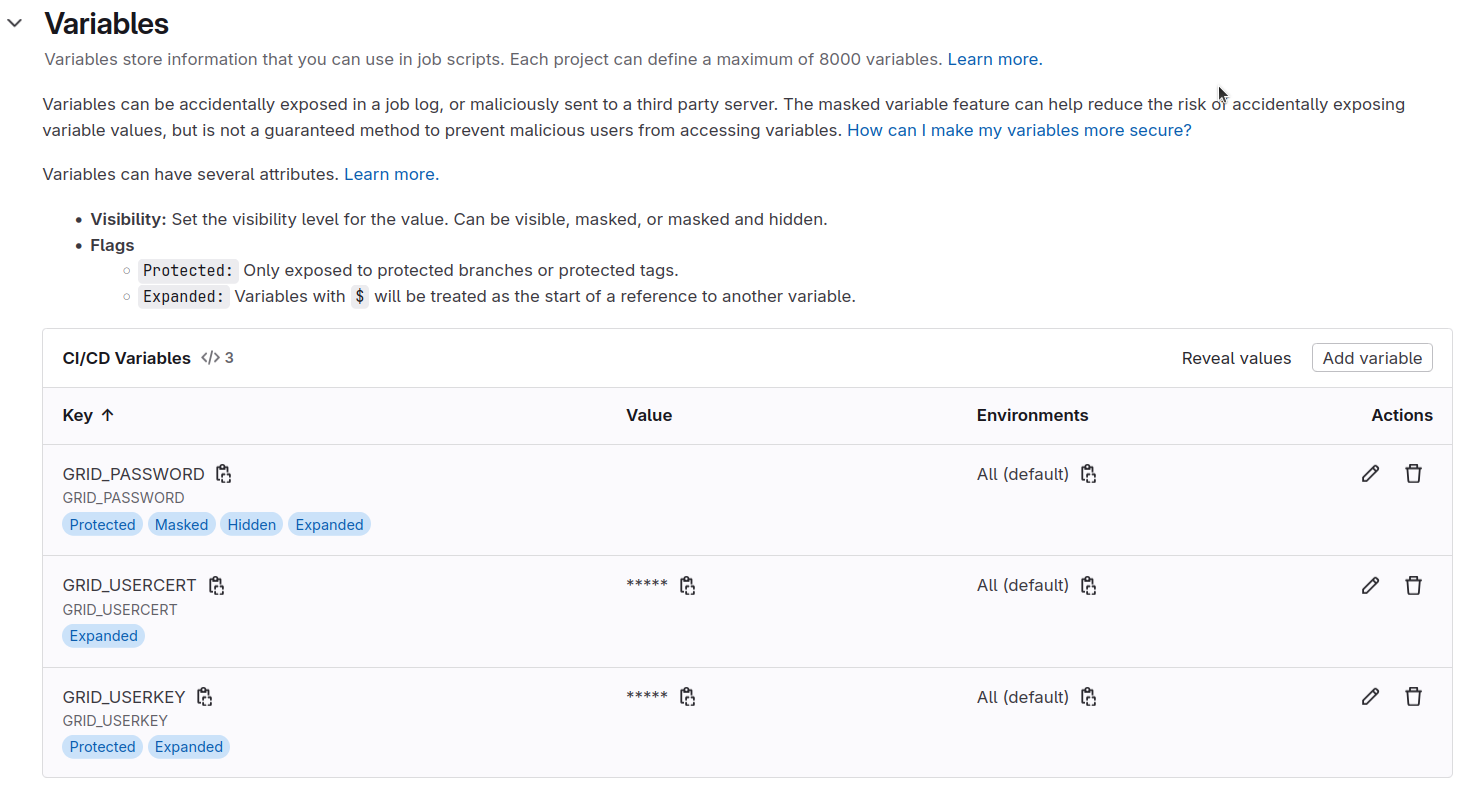
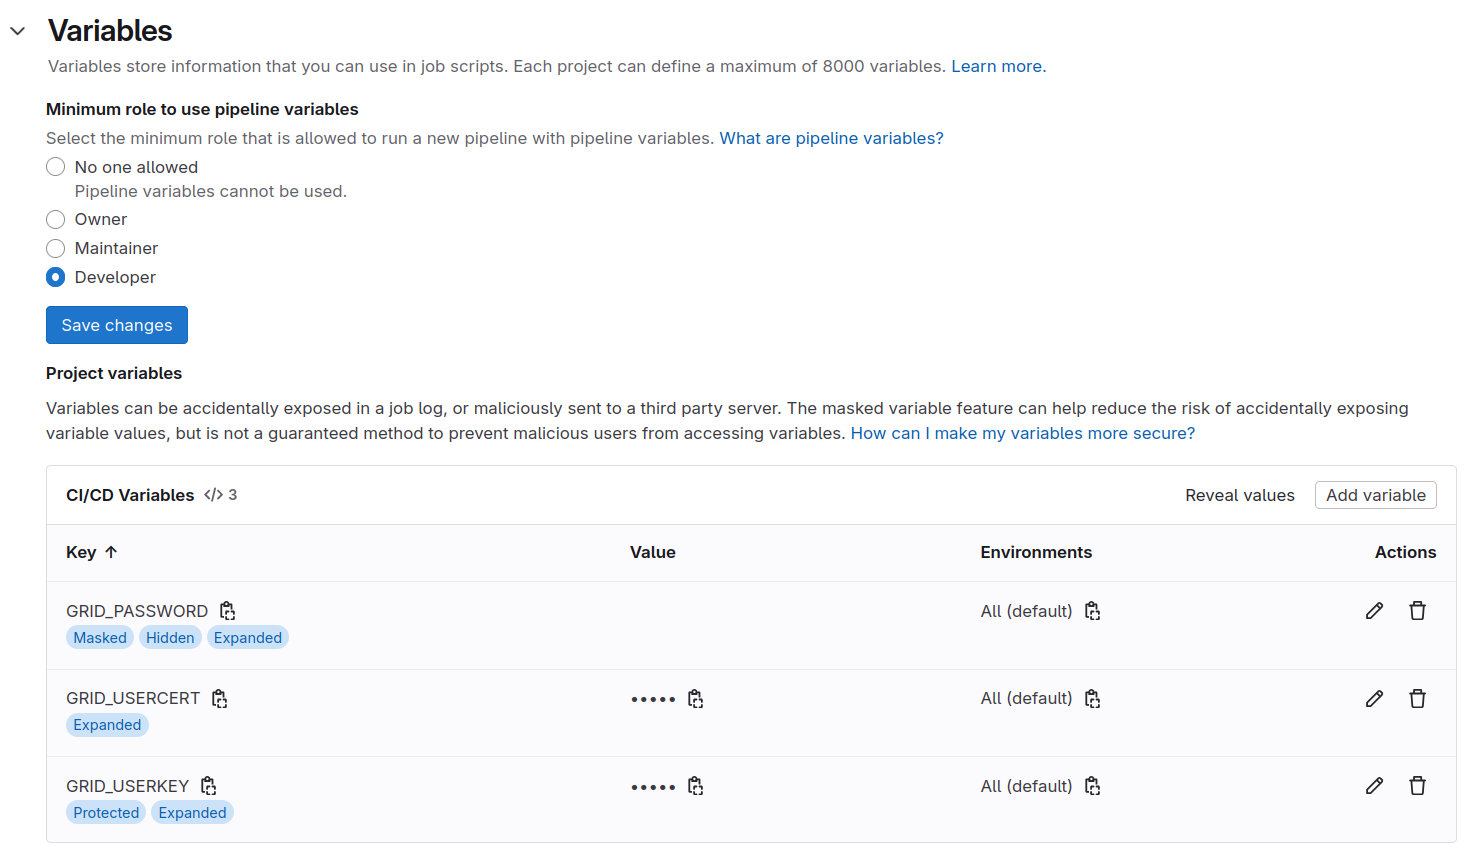
Addressing issue #11

diff --git a/_episodes/03-vomsproxy.md b/_episodes/03-vomsproxy.md
@@ -29,11 +29,12 @@ to be stored in GitLab.
 > history. Furthermore, putting them in a public, or even a private but shared
 > repository, is a violation of grid policy, and could lead to access being
 > revoked for the offending user. Should you accidentally have put sensitive
-> data to a repository, please see the [guide by GitHub][removing-sensitive] to
+> data to a repository, please see the guides [by GitHub][removing-sensitive-github]
+> and [by GitLab][removing-sensitive-gitlab] to
 > remove them (though the data should still be considered compromised).
 {: .callout}
 
-Please make sure to revisit the section on
+For more information see the section on
 [private information/access control][lesson-gitlab-secrets]
 from the
 [Continuous Integration / Continuous Development (CI/CD)][lesson-gitlab]
@@ -141,7 +142,7 @@ and certificates as variables to GitLab:
 - As an additional safety measure, set them as `Masked` as well if possible (this will not work for the certificates but should for your grid password).
 
 For more details, see the
-[Variables: Advanced use section][gitlab-variables-advanced]
+[GitLab CI/CD variables][gitlab-variables-advanced]
 of the GitLab documentation. Setting variables to `Protected` means that
 they are only available in protected branches, e.g. your `master` branch.
 This is important when collaborating with others, since anyone with access
@@ -166,12 +167,13 @@ printf 'mySecr3tP4$$w0rd' | base64
 {: .language-bash}
 
 Mind the single quotes (`'`) and not double quotes (`"`). If you are on Linux,
-you should `-w 0` to the `base64` command.
+you should add `-w 0` to the `base64` command, as by default the encoded string
+is wrapped after 76 characters - `-w 0` means wrapping is disabled.
 For the two certificates, use them as input to `base64` directly:
 
 ~~~
-base64 -i ~/.globus/usercert.pem
-base64 -i cat ~/.globus/userkey.pem
+base64 -i ~/.globus/usercert.pem -w 0
+base64 -i ~/.globus/userkey.pem -w 0
 ~~~
 {: .language-bash}
 
@@ -187,7 +189,7 @@ The `Settings` --> `CI / CD` --> `Variables` section should look like this:
 
 > ## Better safe than sorry
 > To reduce the risk of leaking your passwords and certificates to others, you should
-> **protect** your master branch, effectively preventing you and others from pushing to
+> **protect** your master branch, effectively preventing others from pushing to
 > it directly and e.g. print your password to the job logs.
 > To do so, go to *Settings* -> *Repository* -> *Protected Branches*. Mind that the
 > option chosen below still puts a lot of trust in your collaborators. With the
@@ -216,13 +218,12 @@ printf "${GRID_PASSWORD}" | base64 -d | voms-proxy-init --voms cms --pwstdin
 Trying this with the standard GitLab CC7 runner will fail, since the
 CMS-specific certificates are not included in the image. An image that
 has these certificates installed already is
-`gitlab-registry.cern.ch/clange/cmssw-docker/cc7-cms:latest`.
+`gitlab-registry.cern.ch/cms-cloud/cmssw-docker/cc7-cms:latest`.
 An example to obtain a grid proxy, check it, and then destroy it again
 would result in the following `yaml`:
 
 ~~~
 voms_proxy_test:
-  stage: test
   image:
     name: gitlab-registry.cern.ch/cms-cloud/cmssw-docker/cc7-cms:latest
     entrypoint: [""]
@@ -249,4 +250,5 @@ command.
 
 {% include links.md %}
 
-[removing-sensitive]: https://help.github.com/en/github/authenticating-to-github/removing-sensitive-data-from-a-repository
+[removing-sensitive-github]: https://help.github.com/en/github/authenticating-to-github/removing-sensitive-data-from-a-repository
+[removing-sensitive-gitlab]: https://docs.gitlab.com/topics/git/undo/#handle-sensitive-information

diff --git a/_includes/links.md b/_includes/links.md
@@ -54,9 +54,9 @@
 [payload-gitlab-cms]: https://gitlab.cern.ch/awesome-workshop/payload-gitlab-cms
 [gitlab-artifacts]: https://docs.gitlab.com/ee/ci/yaml/#artifacts
 [lesson-gitlab-artifacts]: https://awesome-workshop.github.io/continuous-integration-deployment-gitlab/12-skim-milk/index.html
-[lesson-gitlab-secrets]: https://awesome-workshop.github.io/continuous-integration-deployment-gitlab/12-the-spy-game/index.html
-[lesson-gitlab]: https://awesome-workshop.github.io/continuous-integration-deployment-gitlab/
-[gitlab-variables-advanced]: https://gitlab.cern.ch/help/ci/variables/README#advanced-use
+[lesson-gitlab-secrets]: https://hsf-training.github.io/hsf-training-cicd/12-the-spy-game/index.html
+[lesson-gitlab]: https://hsf-training.github.io/hsf-training-cicd/
+[gitlab-variables-advanced]: https://docs.gitlab.com/ci/variables/
 [workshop-indico]: https://indico.cern.ch/event/854880/
 [gitlab-newproject]: https://gitlab.cern.ch/projects/new
 [hsf-training-gitlab-ci]: https://hsf-training.github.io/hsf-training-cicd/
